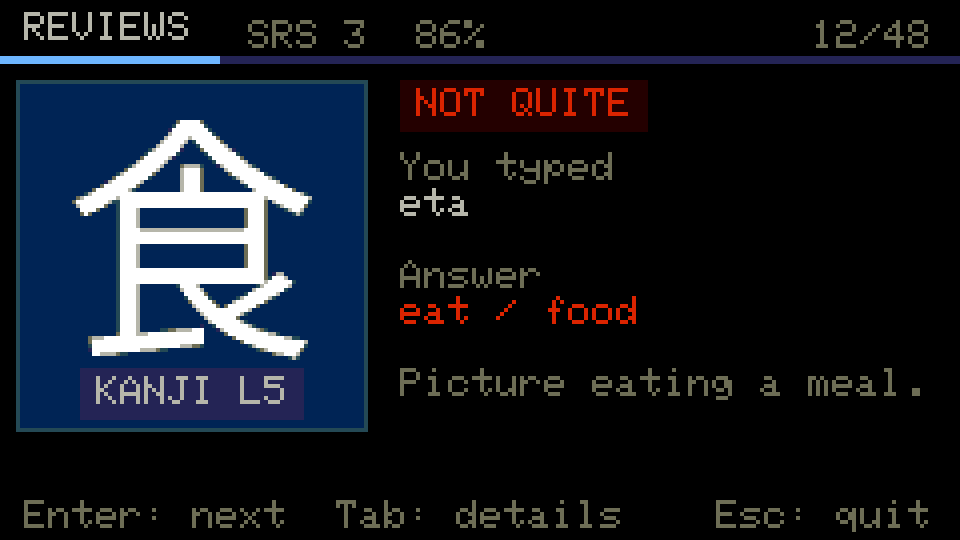
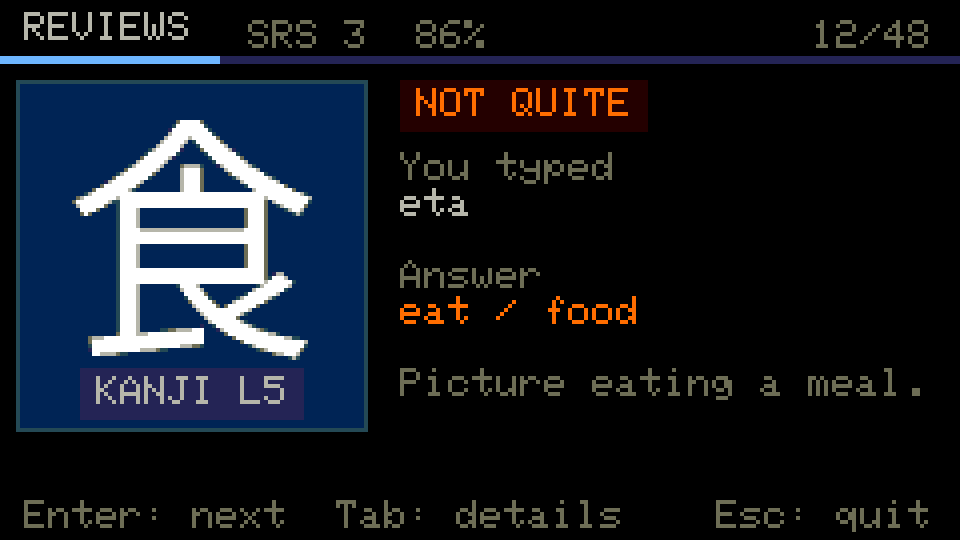
fix: raise the error color contrast (UI-08)
Quantize the Theme RGB332 palette and audit WCAG contrast/proximity. kErr was 4.26:1 on bg and 3.08:1 on surface (and close to brand); move it to #FF6D00 (RGB332 0xEC), 7.44/5.38/5.10. Leave faint/accent/line/surfaces as intentional hierarchy. Regenerate mockups and document the audit.

diff --git a/firmware/src/ui/Theme.h b/firmware/src/ui/Theme.h
@@ -1,6 +1,6 @@
 #pragma once
-// Shared KaniKey palette, RGB332 (the canvas and the panel both use 8-bit
-// color). Values are unchanged from the original main.cpp constants.
+// Shared KaniKey palette. The canvas is RGB332 (8-bit); every stored RGB565
+// value is quantized to that palette. See docs/design.md §8.1 for the audit.
 #include <cstdint>
 
 namespace kk::ui {
@@ -12,13 +12,13 @@ constexpr uint16_t kLine = 0x2208;      // 8-bit: muted teal line
 constexpr uint16_t kText = 0xFFFF;
 constexpr uint16_t kDim = 0xA577;
 constexpr uint16_t kFaint = 0x636F;
-constexpr uint16_t kBrand = 0xE308; // #FF7A59, 8-bit coral
+constexpr uint16_t kBrand = 0xE308; // #FF6D55, 8-bit coral (design #FF7A59)
 constexpr uint16_t kOk = 0x5EF1;
 constexpr uint16_t kOkBg = 0x0183;
 constexpr uint16_t kAccent = 0x2B1B;
 constexpr uint16_t kAccentHi = 0x7D5F;
 constexpr uint16_t kReading = 0x2D14;
-constexpr uint16_t kErr = 0xC945;
+constexpr uint16_t kErr = 0xFB60; // #FF6D00, 8-bit red-orange (was 0xC945)
 constexpr uint16_t kErrBg = 0x3882;
 constexpr uint16_t kWarn = 0xFE26;
 

diff --git a/tools/mockups/render.py b/tools/mockups/render.py
@@ -177,7 +177,7 @@ RGB565 = {
     "accent": 0x2B1B,
     "accent_hi": 0x7D5F,
     "reading": 0x2D14,
-    "err": 0xC945,
+    "err": 0xFB60,
     "err_bg": 0x3882,
     "warn": 0xFE26,
 }

diff --git a/docs/design.md b/docs/design.md
@@ -334,6 +334,88 @@ Details are in [ux.md](ux.md). Map:
 These are renders from `tools/mockups/render.py` using the M5GFX bitmap fonts
 and the RGB332 palette, not device captures.
 
+### 8.1 Palette and contrast (UI-08)
+
+The canvas is 8-bit RGB332, so a `Theme.h` value is not what the panel shows.
+Each token is stored as an RGB565 constant, quantized with the same conversion
+as `rgb332_t` (`((((c >> 13) & 7) << 3) + ((c >> 8) & 7)) << 2) + ((c >> 3) & 3)`),
+then expanded back with `R8 = 36*r + r/2`, `G8 = 36*g + g/2`, `B8 = 85*b`.
+The table below is the result; contrast is the WCAG relative-luminance ratio,
+and color distances in the findings are CIE76 ΔE.
+
+| Token | Stored RGB565 | RGB332 | Panel |
+|---|---|---:|---|
+| `bg` | `0x0000` | `0x00` | `#000000` |
+| `surface` | `0x0108` | `0x05` | `#002455` |
+| `surface-hi` | `0x2128` | `0x25` | `#242455` |
+| `line` | `0x2208` | `0x29` | `#244955` |
+| `text` | `0xFFFF` | `0xFF` | `#FFFFFF` |
+| `dim` | `0xA577` | `0xB6` | `#B6B6AA` |
+| `faint` | `0x636F` | `0x6D` | `#6D6D55` |
+| `brand` | `0xE308` | `0xED` | `#FF6D55` |
+| `ok` | `0x5EF1` | `0x5A` | `#49DBAA` |
+| `ok-bg` | `0x0183` | `0x04` | `#002400` |
+| `accent` | `0x2B1B` | `0x2F` | `#246DFF` |
+| `accent-hi` | `0x7D5F` | `0x77` | `#6DB6FF` |
+| `reading` | `0x2D14` | `0x36` | `#24B6AA` |
+| `err` | `0xFB60` | `0xEC` | `#FF6D00` |
+| `err-bg` | `0x3882` | `0x20` | `#240000` |
+| `warn` | `0xFE26` | `0xF8` | `#FFDB00` |
+
+`gold` is not a `Theme.h` token: Home/Stats use M5GFX's `TFT_GOLD`, which
+quantizes to the same `#FFDB00` as `warn`.
+
+Contrast of the text and semantic tokens on the three main backgrounds:
+
+| Foreground | on `bg` | on `surface` | on `surface-hi` |
+|---|---:|---:|---:|
+| `text` | 21.00 | 15.18 | 14.40 |
+| `dim` | 10.26 | 7.42 | 7.03 |
+| `faint` | 3.97 | 2.87 | 2.72 |
+| `brand` | 7.57 | 5.47 | 5.19 |
+| `ok` | 12.00 | 8.67 | 8.22 |
+| `accent-hi` | 9.79 | 7.07 | 6.71 |
+| `reading` | 8.35 | 6.03 | 5.72 |
+| `err` | 7.44 | 5.38 | 5.10 |
+| `warn` | 15.38 | 11.12 | 10.55 |
+
+`ok` on `ok-bg` is 9.58:1 and `err` on `err-bg` is 6.92:1.
+
+**Findings and decisions.**
+
+- `err` was the only status color below 4.5:1 on every main background: 4.26
+  on `bg`, 3.08 on `surface`, 2.92 on `surface-hi`, and 3.97 on `err-bg`.
+  It was also only ΔE 28.5 from `brand`. UI-08 changed it from `0xC945`
+  (`#DB2400`) to `0xFB60` (`#FF6D00`): 7.44/5.38/5.10 and 6.92 on `err-bg`,
+  with ΔE 31 from `brand` and ΔE 63 from `warn`. This is the only palette
+  change; the name and the 8-bit rule stay.
+- `faint` remains below 4.5:1 (3.97/2.87/2.72). It is the deliberate
+  lowest-emphasis token for hints and metadata; raising it to 4.5:1 on the main
+  backgrounds would put it much closer to `dim` and collapse the three-level
+  text hierarchy. It is not used for an error, a required action or the only
+  copy of a value.
+- `accent` is a caret/focus bar, not text: 4.71 on `bg` and 3.23 on
+  `surface-hi`, above the 3:1 non-text threshold. `line` is a 1 px separator
+  (2.16/1.56/1.48); it is supplementary to text and row position.
+- `surface` and `surface-hi` are close (ΔE 6.9, 1.05:1) and both sit just
+  above `bg` (1.38 and 1.46). This is intentional: a focused row also gets the
+  `accent` bar and a brighter label, so focus is never carried by the fill
+  alone. `ok-bg` and `err-bg` are close to `bg` (1.25 and 1.08) for the same
+  reason: the pill word carries the state.
+- The closest semantic pair is `ok` and `reading` (ΔE 23.8). They are not
+  alternatives in one view: `reading` marks the reading mode/reading text and
+  `ok` marks success, and both always carry a word (`READING`, `CORRECT`).
+  `reading` also has to stay distinct from the adjacent `accent-hi` segment in
+  the SRS bar (ΔE 53.6), so neither was moved.
+- `warn`, `ok`, `text`, `dim`, `brand`, `accent-hi` and `reading` all clear
+  4.5:1 on the main backgrounds. `err` now does too.
+
+`tools/mockups/render.py` mirrors the stored constants and the same
+quantization, so `--check` rejects any mockup pixel outside this table. The
+committed images stay synthetic renders; live captures with account content
+are not kept in the repository. A device side-by-side under the panel's real
+gamma remains a hardware check.
+
 ---
 
 ## 9. Architecture

diff --git a/ROADMAP.md b/ROADMAP.md
@@ -592,7 +592,12 @@ scan/password flow on the Cardputer itself.
   prompt glyph shows `no glyph` / `no pack` / `check SD`; About reports the
   pack status.
 - **UI-08 — Palette and screenshots.** Revisit the RGB332 palette after real
-  use; keep live screenshots with user content out of the repository.
+  use; keep live screenshots with user content out of the repository. **Done
+  except the device visual check (2026-11-20):** all 16 tokens quantized and
+  audited; `kErr` moved from `0xC945` to `0xFB60` (`#FF6D00`) to clear 4.5:1,
+  and the other tokens were left alone with the rationale in
+  [design.md §8.1](docs/design.md#81-palette-and-contrast-ui-08). The mockups
+  were regenerated and `--check` passes.
 
 ## 8. Tangocho modules to port
 

diff --git a/docs/ux.md b/docs/ux.md
@@ -67,7 +67,8 @@ the 8-bit canvas converts it to RGB332 and the panel expands that back. The
 panel therefore shows `surface` as `#002455` and `surface-hi` as `#242455`, not
 as the design hex. Do not add a colour outside `Theme.h` without changing the
 header too. (The Home/Stats level label uses M5GFX's `TFT_GOLD`, which
-quantizes to the same `#FFDB00` as `warn`.)
+quantizes to the same `#FFDB00` as `warn`.) The full quantized table and the
+UI-08 contrast audit are in [design.md §8.1](design.md#81-palette-and-contrast-ui-08).
 
 The palette is its own: warm black, indigo and coral. WaniKani's colors,
 illustrations and components are not copied.
